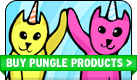
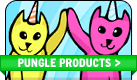
v3.293 - update front page, anvil, template, build survey, create associative array, build referrer, add image

diff --git a/survey-7-20.php b/survey-7-20.php
@@ -1,0 +1,106 @@
+<!doctype html>  
+
+<!-- paulirish.com/2008/conditional-stylesheets-vs-css-hacks-answer-neither/ --> 
+<!--[if lt IE 7 ]> <html lang="en" class="no-js ie6"> <![endif]-->
+<!--[if IE 7 ]>    <html lang="en" class="no-js ie7"> <![endif]-->
+<!--[if IE 8 ]>    <html lang="en" class="no-js ie8"> <![endif]-->
+<!--[if IE 9 ]>    <html lang="en" class="no-js ie9"> <![endif]-->
+<!--[if (gt IE 9)|!(IE)]><!--> <html lang="en" class="no-js"> <!--<![endif]-->
+
+<head>
+    <title></title>
+    <meta name="description" content="Take a brief survey, possibly win $20!">
+    <meta name="author" content="pungle.me">
+<?php require("include/head.php"); ?>
+
+    <!-- !!MUST SET THIS IMPORTANT!! -->
+    <link rel="canonical" href="http://pungle.me/survey/" />
+
+    <style type="text/css">
+        #emailForm { -moz-border-radius: 4px; -webkit-border-radius: 4px; border-radius:4px; height:20px; border:1px solid #ccc; padding:3px 0 1px 5px; line-height: normal; margin-top: 5px; width: 200px; }
+        #submitEmail { width: 85px; }
+    </style>
+</head>
+
+<body>
+<?php require("include/nav.php"); ?>
+
+    <div id="subheader" class="clearfix">
+        <div class="row">
+            <div class="col col_16"><h1 style="display: inline-block"><b>SURVEY</b> TIME</h1></div>
+        </div>
+    </div>
+    
+    <div id="content" class="clearfix">
+        <div class="row">
+            <div class="col col_16">
+                <?php include 'include/referrer.php'; ?>
+                <br/>
+
+                
+                <input type="text" placeholder="<?php echo $placeHOLDER; ?>" id="emailForm">                
+                <input type="submit" class="signup" id="submitEmail" value="Update">
+
+                <?php if ($showREF == true) { ?>
+                    <br/><a href="/survey/?id=<?php echo $id; ?>">Link</a>
+                <?php } ?>
+                
+                <br/><br/>
+                <iframe src="https://spreadsheets.google.com/spreadsheet/embeddedform?formkey=dHI2Z3ZhNW1qV0s3UGFHT1NVLU8zR2c6MQ" width="940" height="623" frameborder="0" marginheight="0" marginwidth="0">Loading...</iframe>
+            </div>
+        </div>
+
+        <div class="row">
+            <div class="col col_16">
+                <h3><i>Share to increase your odds of winning!</i></h3>
+                <p>
+                    <br/>Enter your email to generate a personalized link you can share on Facebook & Twitter. Every person you send our way earns you an extra chance to win. Easily double your odds with a just a few clicks!<br/>
+                    
+                    
+                </p>
+            </div>            
+        </div>
+
+        <div class="row">
+            <div class="col col_16 align_justify">
+                <p>
+                    <small>
+                        <b>Contest Rules & Regulations</b><br/>
+                        1. Agreement: No purchase is necessary to enter the Contest. The act of entering the Contest constitutes acceptance of the Contest Rules and decisions of the Contest judge.<br/>
+                        2. Sponsor(s): The Contest Sponsor is Pungle, LLC.<br/>
+                        3. Eligibility: The Contest is open to legal residents in the United States of America, 18 years of age and older, except for employees or contractors of the Contest Sponsor(s) or their advertising or promotional agencies or affiliates, and immediate families of or any one living with any employee or contractor of the Contest Sponsor(s) or their advertising or promotional agencies or affiliates. The Contest is void where prohibited by law. Contestants who reside in areas where the Contest is prohibited by law may participate in the Contest but will be ineligible for the prizes. Facsimiles and illegible entries are not acceptable. Chances of winning depend on the total number of eligible entries received. One entry per person.<br/>
+                        4. Contest Instructions: To enter, contestants must a) Fille out the survey found on this page.<br/>
+                        5. Contest Period: This Contest runs July 20 – September 1, 2011. On September 1, 2011 at or around noon, a random draw of all eligible entries submitted will take place. The selected contestant will be contacted by a representative of Pungle and announced on our Facebook Page.<br/>
+                        6. Prize(s): One winner will be chosen from all entries collected for the contest prize.   The prize for this contest will be a $20 Amazon Gift Card.<br/>
+                        7. Other: All information collected will be used for the purposes of administering the Contest and for Contest Sponsor’s internal marketing purposes only and will not be sold or rented to third parties. All personal information collected by the Contest Sponsor(s) will be kept in accordance with our privacy policy, which can be found in the footer below. All decisions of the Contest judge are final. The Contest is governed by the laws of Washington and the laws of the United States of America applicable therein. The Contest Sponsor(s) reserve the right to cancel or modify the Contest or the Contest Rules at any time without notice. The Contest Sponsor(s) reserve the right to substitute any prize or portion of the prize with a prize of equal or greater value. All prizes are awarded as-is and no warranties or guarantees are implied or expressed. All prizes are non-transferable and are not convertible to cash. The Contest Sponsor(s) are not liable for any errors or negligence that may arise in connection with this Contest.
+                    </small>
+                </p>
+            </div>
+	    </div>
+    </div>
+
+<?php require("include/footer.php"); ?>
+
+<!-- Grab Google CDN's jQuery. fall back to local if necessary -->
+	<script src="https://ajax.googleapis.com/ajax/libs/jquery/1.6.1/jquery.min.js" type="text/javascript"></script>
+	<script>!window.jQuery && document.write('<script src="/core/libs/jquery.min.js" type="text/javascript"><\/script>')</script> 
+  
+	<script src="https://ajax.googleapis.com/ajax/libs/jqueryui/1.8.13/jquery-ui.min.js" type="text/javascript"></script>
+	<script>!$.ui && document.write('<script src="/core/libs/jquery-ui-1.8.9.min.js" type="text/javascript"><\/script>')</script>
+
+    <script type="text/javascript">
+	    $(document).ready(function(){
+	        
+	        $("input#emailForm").keyup(function(event) {
+	            if (event.keyCode == '13') window.location = "/survey/?update=" + $('input#emailForm').val();
+	            $("input#submitEmail").click(function() { 
+	                window.location = "/survey/?update=" + $('input#emailForm').val();
+	            });
+	        });
+	        
+	    });	    
+	</script>
+		    
+</body>
+
+</html>

diff --git a/index.php b/index.php
@@ -8,8 +8,8 @@
 <!--[if (gt IE 9)|!(IE)]><!--> <html lang="en" class="no-js"> <!--<![endif]-->
 
 <head>
-	<title>Save the world! | pungle.me</title>
-	<meta name="description" content="The apocalypse is imminent.. it's time to save the world! Join pungle.me to maximize your impact.">
+	<title>Social Good! | pungle.me</title>
+	<meta name="description" content="Social good that's free, easy, and makes a difference when shopping online.">
 	<meta name="author" content="pungle.me">
 <?php require("include/head.php"); ?>
 	
@@ -41,24 +41,6 @@
 	        box-shadow: none;
         }
         
-        /* nav {
-            -webkit-box-shadow: 0 0 3px #003b74;
-	        -moz-box-shadow: 0 0 3px #003b74;
-	        box-shadow: 0 0 3px #003b74;
-	        right: 52px; 
-            bottom: 84px;
-            background-color:#FFF;
-        }
-        nav ul li { float:left; padding: 8px 8px 8px 10px; }
-        nav ul li.parentNav { padding: 8px 7px 8px 0px; }
-        nav ul.navigation li ul { top: 36px; }
-        
-        #header_wrapper { background: none; }
-        
-        #header {
-	        height: 140px;
-	    } */
-        
 	    #subfooter {display: none;}
 	    #footer_wrapper { margin-top: 135px; background: none; }
 	    
@@ -83,22 +65,17 @@
 	        
 	        <div class="col col_10 align_center">
 	            <br/>
-	            <img src="/images/PU_headline448x197.png" width="448" height="197" alt="Save the world." title="Save the world." />	            
+	            <img src="/images/PU_headline448x197.png" width="448" height="197" alt="Save the World" title="Save the World" />	            
 	            
 	            <p>
 	                <span style="font: 16px/23px 'helvetica neue', Helvetica, Arial, Verdana, sans-serif;">Use our <a style="color: #0664bb" href="/shop/" title="Shopping Tool">Shopping Tool</a> to turn your<br/> purchases into donations.</span>
 	            </p>
 	            
-	            <!--
-	            <p>
-	                <b>Ready to save the world?</b>
-	            </p>            
-                -->
 	        </div>
 	        
 	        <div class="col indexForm">
 	            <img src="/images/PU_step1.png" width="169" height="28" alt="Step 1" title="Step 1"/><br/>
-	            <small>Sign up to receive exclusive updates, discounts and early access to the official release.</small>
+	            <small>Sign up to get exclusive goodies & treats we only share with our favorite people.</small>
 	            <!-- Begin MailChimp Signup Form -->
 	            
                     <script type="text/javascript">
@@ -112,26 +89,12 @@
                             <fieldset>
                                 
                                 <div class="mc-field-group">
-                                    
-                                    <!-- <label for="mce-FNAME">First Name </label> -->
-                                    
                                     <input type="text" placeholder="Full Name" value="" name="FNAME" class="" id="mce-FNAME">
-                                    
                                 </div>
                                 <div class="mc-field-group">
-                                    
-                                    <!-- <label for="mce-EMAIL">Email Address <strong class="note-required">*</strong></label> -->
-                                    
                                     <input type="text" placeholder="Email Address" value="" name="EMAIL" class="required email" id="mce-EMAIL">                                    
                                     <input type="submit" value="Submit" name="subscribe" id="mc-embedded-subscribe" class="signup">
                                 </div>
-                                <!-- <div class="mc-field-group">
-                                    
-                                    <label for="mce-LNAME">Last Name </label>
-                                    
-                                    <input type="text" value="" name="LNAME" class="" id="mce-LNAME">
-                                    
-                                </div> -->
                 		        <div id="mce-responses">
                 		            
                 		            <div class="response" id="mce-error-response" style="display:none"></div>

diff --git a/include/referrer.php b/include/referrer.php
@@ -1,0 +1,78 @@
+<?php
+
+$regex = '/^(?:(?:(?:[^@,"\[\]\x5c\x00-\x20\x7f-\xff\.]|\x5c(?=[@,"\[\]\x5c\x00-\x20\x7f-\xff]))(?:[^@,"\[\]\x5c\x00-\x20\x7f-\xff\.]|(?<=\x5c)[@,"\[\]\x5c\x00-\x20\x7f-\xff]|\x5c(?=[@,"\[\]\x5c\x00-\x20\x7f-\xff])|\.(?=[^\.])){1,62}(?:[^@,"\[\]\x5c\x00-\x20\x7f-\xff\.]|(?<=\x5c)[@,"\[\]\x5c\x00-\x20\x7f-\xff])|[^@,"\[\]\x5c\x00-\x20\x7f-\xff\.]{1,2})|"(?:[^"]|(?<=\x5c)"){1,62}")@(?:(?!.{64})(?:[a-zA-Z0-9][a-zA-Z0-9-]{1,61}[a-zA-Z0-9]\.?|[a-zA-Z0-9]\.?)+\.(?:xn--[a-zA-Z0-9]+|[a-zA-Z]{2,6})|\[(?:[0-1]?\d?\d|2[0-4]\d|25[0-5])(?:\.(?:[0-1]?\d?\d|2[0-4]\d|25[0-5])){3}\])$/';
+
+$jsonPATH = "core/pungleSURVEY.json";
+$string = file_get_contents($jsonPATH);
+$survey = json_decode($string,true);
+$ip = $_SERVER['REMOTE_ADDR'];
+$id = null;
+$showREF = false;
+$placeHOLDER = "Enter Email";
+
+foreach ($survey as $key => $value) {
+    if ($ip == $survey[$key][user_ip]) {
+        $id = $key;        
+    }    
+}
+
+// can we find the email, or id
+if (isset($_GET["update"])) {
+    $update = $_GET["update"];                            
+    
+    // if returning ip update email, else search the json file for an email match and set the ID
+    if (isset($id) && $survey[$id][email] != $update) {
+        if (preg_match($regex, $update)) {
+            $survey[$id][email] = $update;
+            file_put_contents($jsonPATH, json_encode($survey));
+            echo "Updated email address.<br/>";
+        }
+        else echo "Can not update email, invalid address.<br/>";
+    }
+    elseif ($id === null) {
+        foreach ($survey as $key => $value) {
+            if ($update == $survey[$key][email]) $id=$key;
+        }
+    }
+
+    // if a match is still not found, create a new account and set the ID
+    if ($id === null) {
+        // check the email address syntax
+        if (preg_match($regex, $update)) {
+            $newuser = array("email" => $update, "user_ip" => $ip, "referrals" => array());
+            array_push($survey, $newuser);
+            $id = array_search($newuser, $survey);
+            file_put_contents($jsonPATH, json_encode($survey));
+            echo "Share link created.<br/>";
+        }
+        // don't save bad email addresses
+        else echo "Unacceptable email address.<br/>";
+    }
+}
+// if an ID is specified and we didn't find a user IP
+elseif (isset($_GET["id"]) && $id === null) $id = $_GET["id"];
+
+
+// ************* LOGIC *************
+if (isset($id)) {
+    echo "Found ID: $id<br/>";
+    
+    // check if they are they are the original user
+    if (isset($update) || $survey[$id][user_ip] == $ip) {
+        $showREF = true;
+        $placeHOLDER = $survey[$id][email];
+        echo "You have ", count($survey[$id][referrals]) ," referrals.";
+    }                            
+    // else they are a possible referral, check for original user
+    elseif ($survey[$id] && !in_array($ip, $survey[$id][referrals])) {
+        // user is found, add this IP
+        array_push($survey[$id][referrals], $ip);
+        file_put_contents($jsonPATH, json_encode($survey));
+        // echo "I see you were referred by a friend, see below on how you can get credit for referrals too!";
+    }
+    // DO THEY NEED TO SEE THIS?? original user not found, no referral credited
+    // else echo "User not found or referral already counted.";
+}
+// else echo "You are an original user.";
+
+?>

diff --git a/include/head.php b/include/head.php
@@ -4,8 +4,8 @@
     <meta name="google-site-verification" content="md946IN13FSC3e2OGYEp6nV146DZr0wlyWEoJWWth8A" />
     
     <meta property="og:title" content="I'm a pungler!" />
-    <meta property="og:description" content="Pungling is responsible shopping; where your puchases help make the world a better place." />
-    <meta property="og:image" content="http://pungle.me/images/PRfbshareimage312x280.jpg" />
+    <meta property="og:description" content="Where social good is free, easy, and makes a difference." />
+    <meta property="og:image" content="http://pungle.me/images/PRfbshareimage72x72.jpg" />
 
     <!-- Always force latest IE rendering engine (even in intranet) & Chrome Frame Remove this if you use the .htaccess -->
     <meta http-equiv="X-UA-Compatible" content="IE=edge,chrome=1">
@@ -19,7 +19,7 @@
   
     <!-- CSS : implied media="all" -->
     <!-- 4/15/11 set v=4 -->
-    <link rel="stylesheet" href="/core/style.css?v=4">
+    <link rel="stylesheet" href="/core/style.css?v=5">
     <!-- <link rel="stylesheet" href="core/style-min.css?v=2"> -->
 
     <!--[if lt IE 9]>

diff --git a/anvil.php b/anvil.php
@@ -108,7 +108,7 @@
     
 	<div id="content" class="clearfix">
 		
-	<a id="KTLOStore" href="http://pungle.storenvy.com/" target="_blank" title="Help us keep the lights on; shop at the pungle store!">KTLO Store</a>
+	<a id="KTLOStore" href="http://pungle.storenvy.com/" target="_blank" title="Help us keep the lights on; buy pungle products!">Pungle Products</a>
 	<!-- <div class="row">
       <div class="col col_16">      		
       	<a id="pungleBookmarklet" class="right" href="">bookmarklet</a>
@@ -219,7 +219,7 @@
 	<!-- version this file to force reload -->
 	<!-- 3/27/11 set v=3 -->
 	<script src="/core/pungleJSON.js"></script>
-	<script src="/core/pungle.js?v=3"></script>
+	<script src="/core/pungle.js?v=4"></script>
 	    
 	<script src="/core/libs/jquery.ui.selectmenu.js"></script>
 	<script src="/core/jquery.quicksearch.js"></script>

diff --git a/include/nav.php b/include/nav.php
@@ -8,7 +8,7 @@
 			?>
 			
 			<!-- <a id="headerImage" href="/" title="pungle time!">pungle<img src="/images/pungle_me_logo.png" width="199" height="58" /></a> -->
-			<?php if ($pfile=="index.php") { ?> <a href="/" title="Time to save the world.."><h1 class="headerBannerInterior">Save the World</h1></a> <?php }
+			<?php if ($pfile=="index.php") { ?> <a href="/" title="Social Good"><h1 class="headerBannerInterior">Social Good</h1></a> <?php }
 			else { ?> <a class="headerBannerInterior" href="/" title="Time to save the world..">pungle</a> <?php } ?>
 			
 			<!-- <div class="header_social">

diff --git a/template.php b/template.php
@@ -20,6 +20,11 @@
 <body>
 <?php require("include/nav.php"); ?>
 
+    <div id="subheader" class="clearfix">
+        <div class="row">
+            <div class="col col_16"><h1 style="display: inline-block"><b>BOLD</b> SUBJECT</h1></div>
+        </div>
+    </div>
     
     <div id="content" class="clearfix">
         <!-- <div class="row">
